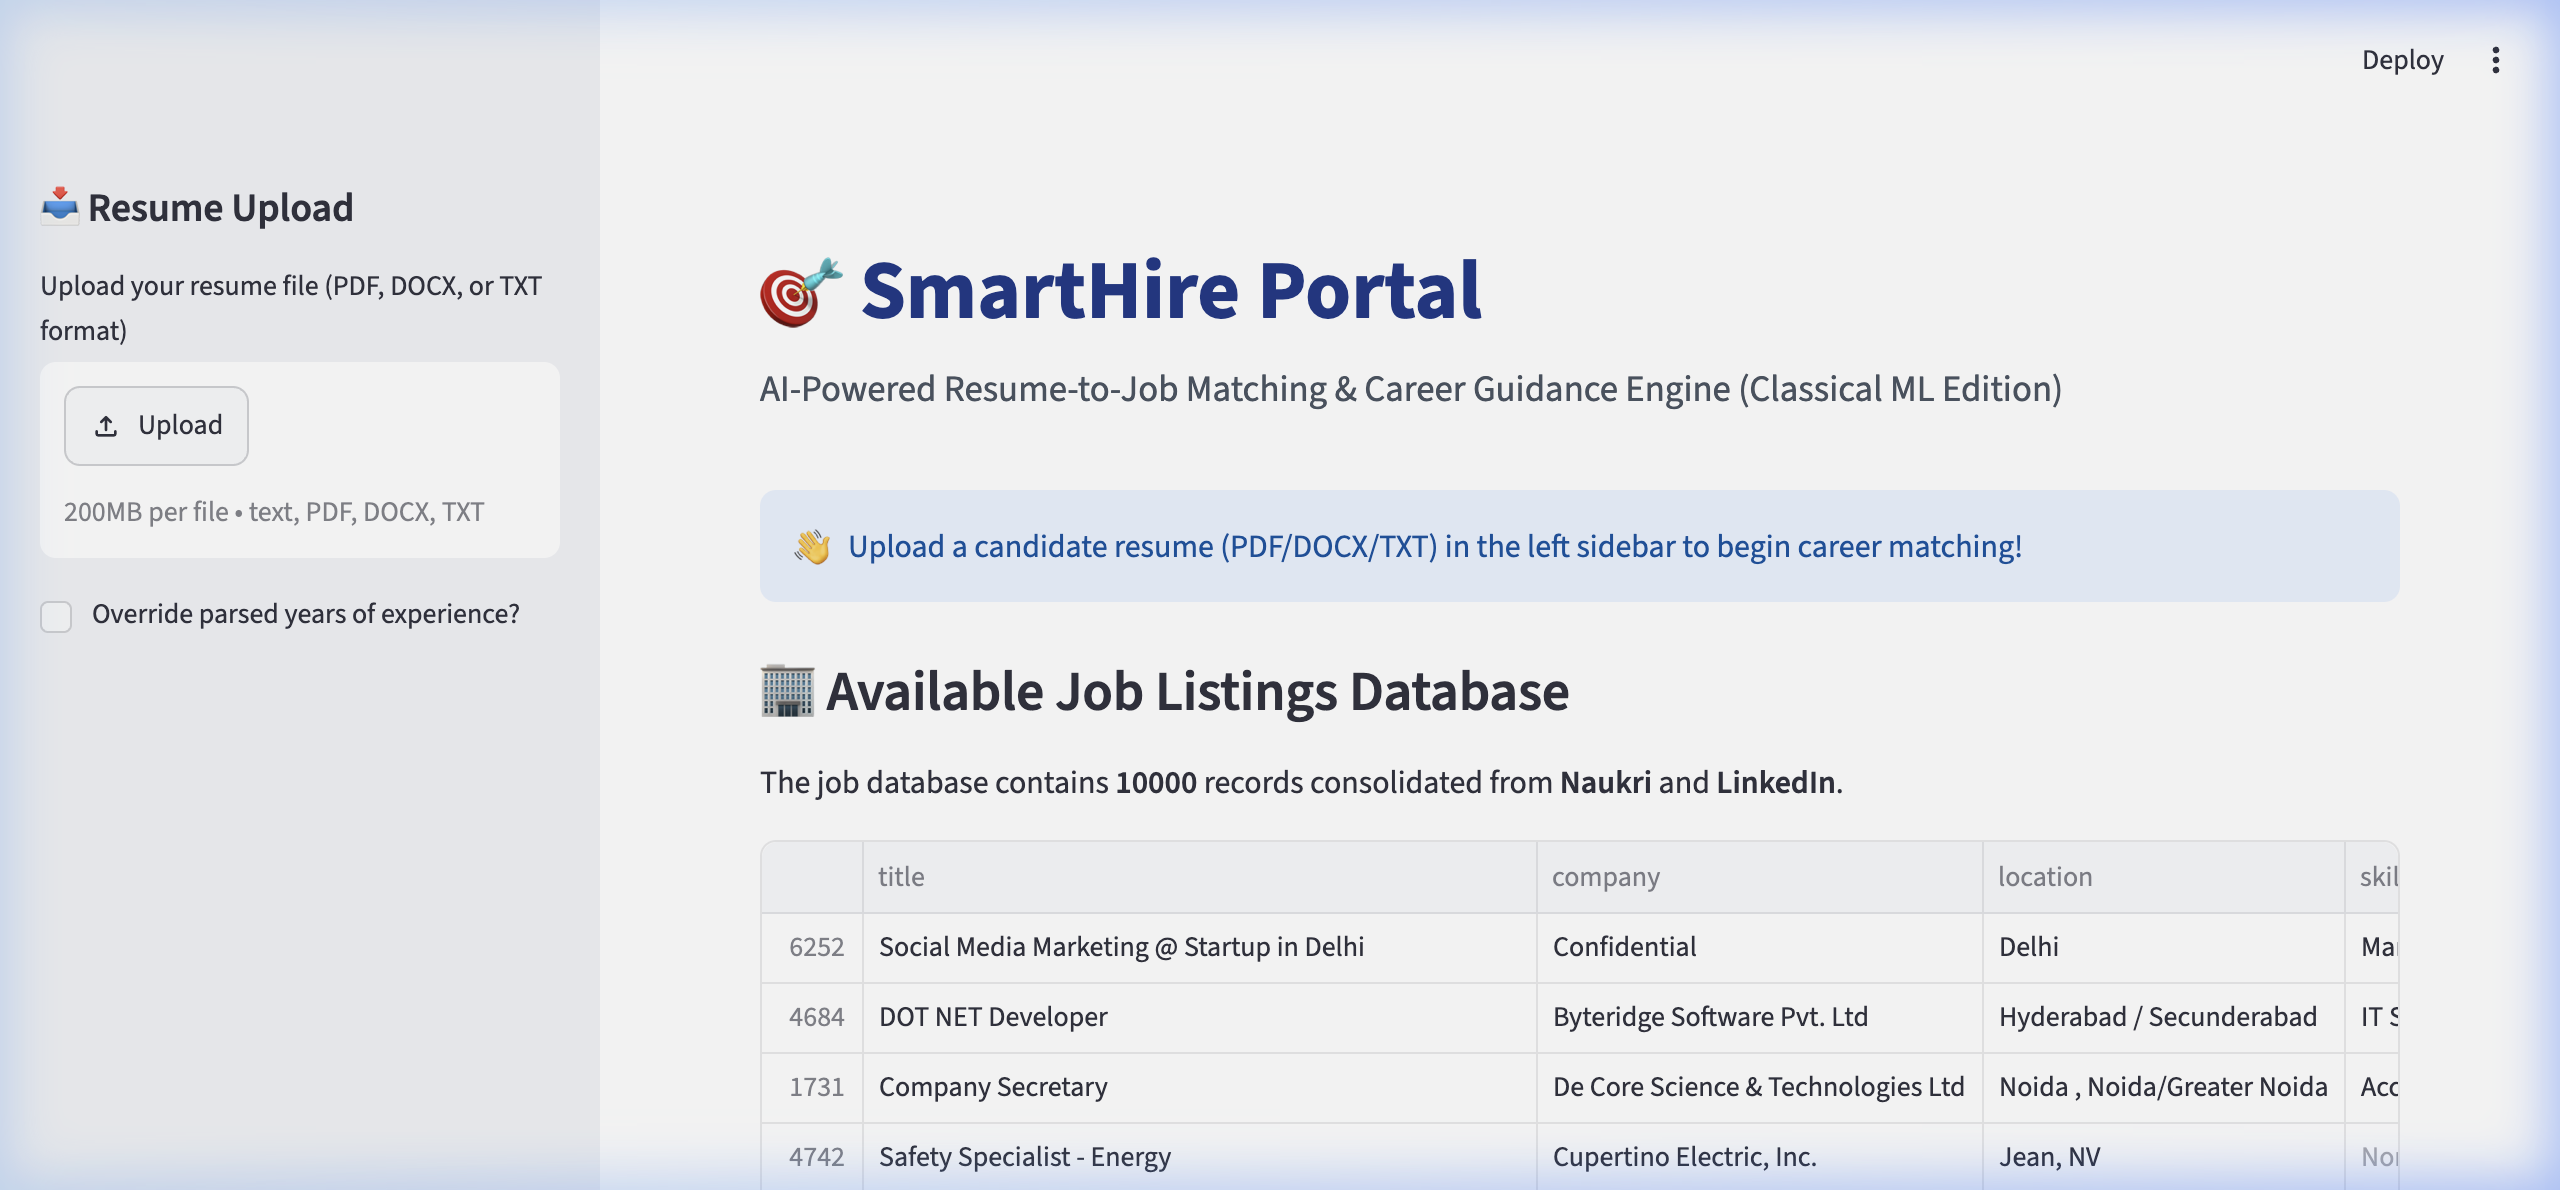
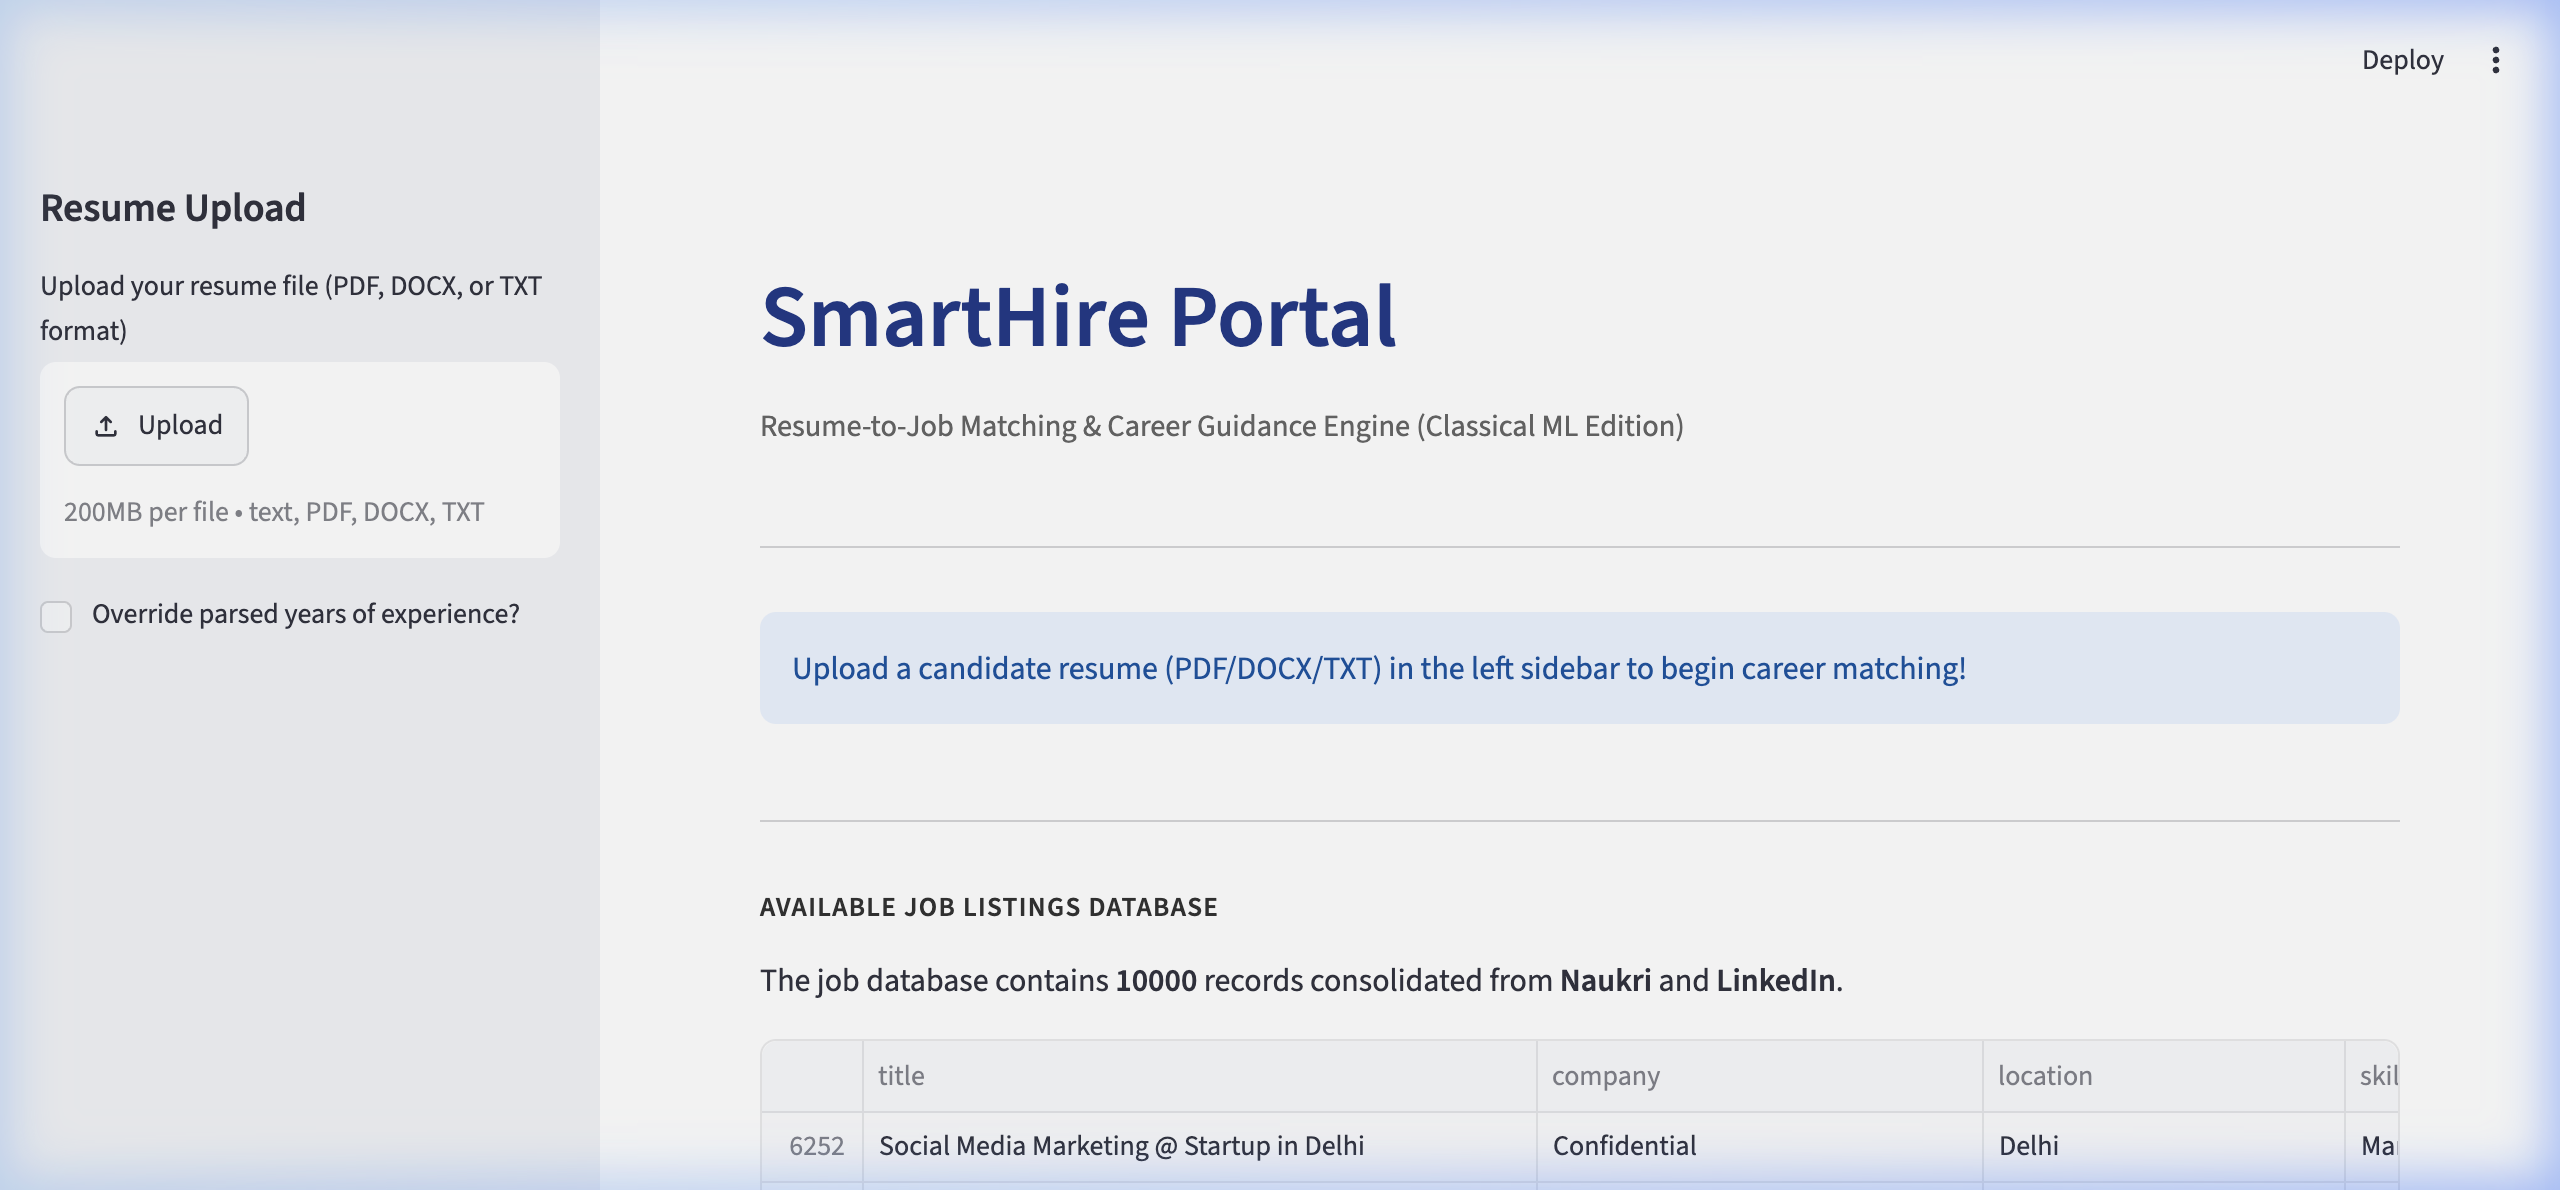
updated screenshots to match final emoji-free UI

diff --git a/app/streamlit_app.py b/app/streamlit_app.py
@@ -114,7 +114,7 @@ st.markdown("""
 """, unsafe_allow_html=True)
 
 st.markdown('<h1 style="font-weight: 600; color: #1e3a8a;">SmartHire Portal</h1>', unsafe_allow_html=True)
-st.markdown('<p style="color: #666; font-size: 0.95rem;">AI-Powered Resume-to-Job Matching & Career Guidance Engine (Classical ML Edition)</p>', unsafe_allow_html=True)
+st.markdown('<p style="color: #666; font-size: 0.95rem;">Resume-to-Job Matching & Career Guidance Engine (Classical ML Edition)</p>', unsafe_allow_html=True)
 st.markdown("---")
 
 def check_models_ready() -> bool: